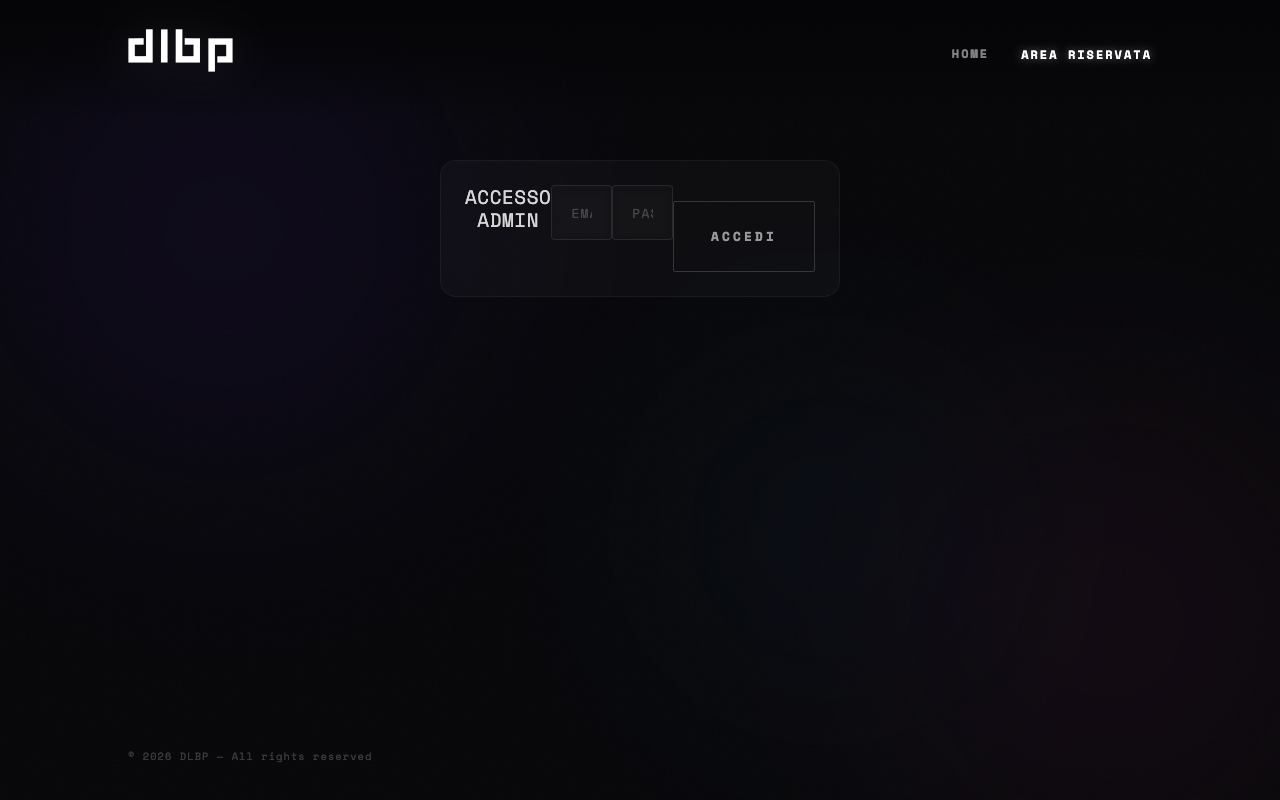
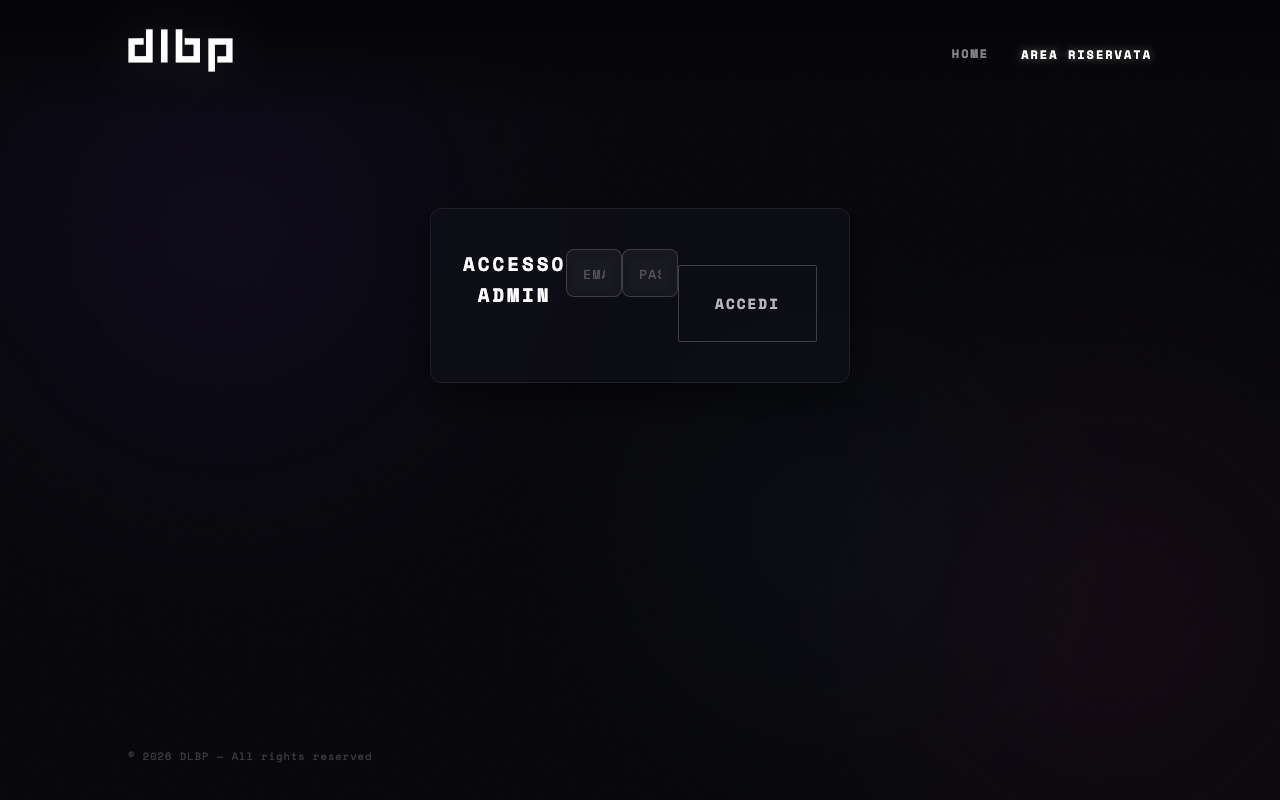
Fix(UI): Standardize .login-card component layout and eliminate animation distortion on Admin, PR, and Scanner login pages

diff --git a/css/styles.css b/css/styles.css
@@ -1001,15 +1001,60 @@ input::placeholder {
     box-shadow: 0 20px 60px rgba(0, 0, 0, 0.4);
     border-color: rgba(255, 255, 255, 0.1);
 }
-#login-section {
+/* Unified Login Card (Admin, PR, Scanner) */
+.login-card, #login-section {
+    max-width: 420px;
+    width: 100%;
+    margin: 3rem auto;
+    padding: 2.5rem 2rem;
+    background: var(--glass-bg);
+    border: 1px solid var(--glass-border);
+    border-radius: var(--radius-lg);
+    backdrop-filter: blur(20px);
+    -webkit-backdrop-filter: blur(20px);
+    box-shadow: 0 15px 35px rgba(0, 0, 0, 0.5);
+    text-align: center;
+    opacity: 1 !important;
     transform: none !important;
+    transition: border-color var(--transition-normal);
 }
-#login-section:hover {
-    transform: none !important;
-    background: rgba(255, 255, 255, 0.03) !important;
-    border-color: rgba(255, 255, 255, 0.06) !important;
-    box-shadow: none !important;
-    cursor: default;
+.login-card:hover, #login-section:hover {
+    border-color: rgba(255, 255, 255, 0.15);
+}
+.login-card h2, #login-section h2 {
+    font-size: 1.2rem;
+    letter-spacing: 3px;
+    font-weight: 700;
+    margin-bottom: 2rem;
+    color: var(--text-primary);
+}
+.login-card input, #login-section input {
+    width: 100%;
+    height: 48px;
+    padding: 0.8rem 1rem;
+    background: rgba(255, 255, 255, 0.05);
+    border: 1px solid rgba(255, 255, 255, 0.15);
+    border-radius: var(--radius-md);
+    color: #fff;
+    text-align: center;
+    font-family: var(--font-mono);
+    font-size: 0.9rem;
+    letter-spacing: 2px;
+    transition: var(--transition-normal);
+}
+.login-card input:focus, #login-section input:focus {
+    border-color: rgba(255, 255, 255, 0.4);
+    background: rgba(255, 255, 255, 0.08);
+    box-shadow: 0 0 15px rgba(255, 255, 255, 0.1);
+    outline: none;
+}
+.login-card .submit-btn, #login-section .submit-btn {
+    width: 100%;
+    min-height: 48px;
+    font-size: 0.9rem;
+    letter-spacing: 2px;
+    font-weight: 700;
+    margin-top: 1rem;
 }
 
 .event-card-inner {

diff --git a/admin.html b/admin.html
@@ -49,15 +49,15 @@
     <main id="app-main" class="eventi-page">
 
         <!-- Login Section -->
-        <section id="login-section" class="event-card-item fade-in stagger-1" style="max-width: 400px; margin: 0 auto; text-align: center;">
-            <h2 class="event-card-title" style="font-size: 1.2rem; margin-bottom: 2rem;">ACCESSO ADMIN</h2>
+        <section id="login-section" class="login-card">
+            <h2>ACCESSO ADMIN</h2>
             <div class="form-group" style="margin-bottom: 1.5rem;">
-                <input type="email" id="admin-email" placeholder="EMAIL" required style="text-align: center; letter-spacing: 2px;">
+                <input type="email" id="admin-email" placeholder="EMAIL" required>
             </div>
-            <div class="form-group" style="margin-bottom: 2rem;">
-                <input type="password" id="admin-password" placeholder="PASSWORD" required style="text-align: center; letter-spacing: 2px;">
+            <div class="form-group" style="margin-bottom: 1.5rem;">
+                <input type="password" id="admin-password" placeholder="PASSWORD" required>
             </div>
-            <button id="login-btn" class="submit-btn" style="width: 100%;">ACCEDI</button>
+            <button id="login-btn" class="submit-btn">ACCEDI</button>
             <div id="login-message" class="form-message hidden"></div>
         </section>
 

diff --git a/scanner.html b/scanner.html
@@ -48,12 +48,12 @@
     <main id="app-main" class="eventi-page">
 
         <!-- Login Section -->
-        <section id="login-section" class="event-card-item fade-in stagger-1" style="max-width: 400px; margin: 0 auto; text-align: center;">
-            <h2 class="event-card-title" style="font-size: 1.2rem; margin-bottom: 2rem;">ACCESSO SCANNER</h2>
-            <div class="form-group" style="margin-bottom: 2rem;">
-                <input type="password" id="scanner-password" placeholder="PASSWORD" required style="text-align: center; letter-spacing: 2px;">
+        <section id="login-section" class="login-card">
+            <h2>ACCESSO SCANNER</h2>
+            <div class="form-group" style="margin-bottom: 1.5rem;">
+                <input type="password" id="scanner-password" placeholder="PASSWORD" required>
             </div>
-            <button id="login-btn" class="submit-btn" style="width: 100%;" aria-label="Accedi allo scanner">ACCEDI</button>
+            <button id="login-btn" class="submit-btn" aria-label="Accedi allo scanner">ACCEDI</button>
             <div id="login-message" class="form-message hidden"></div>
         </section>
 

diff --git a/pr.html b/pr.html
@@ -46,12 +46,12 @@
     
     <main id="app-main" class="eventi-page pr-container">
         <!-- Login Section -->
-        <section id="login-section" class="event-card-item fade-in stagger-1" style="max-width: 400px; margin: 0 auto; text-align: center;">
-            <h2 class="event-card-title" style="font-size: 1.2rem; margin-bottom: 2rem;">ACCESSO PR</h2>
-            <div class="form-group" style="margin-bottom: 2rem;">
-                <input type="password" id="pr-code" placeholder="CODICE PR" style="text-align: center; letter-spacing: 2px;">
+        <section id="login-section" class="login-card">
+            <h2>ACCESSO PR</h2>
+            <div class="form-group" style="margin-bottom: 1.5rem;">
+                <input type="password" id="pr-code" placeholder="CODICE PR" required>
             </div>
-            <button id="login-btn" class="submit-btn" style="width: 100%;">ACCEDI</button>
+            <button id="login-btn" class="submit-btn">ACCEDI</button>
             <div id="login-message" class="form-message hidden"></div>
         </section>
 
